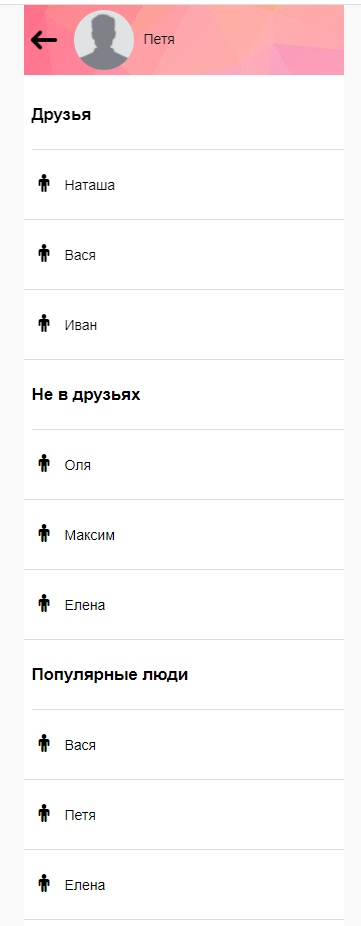
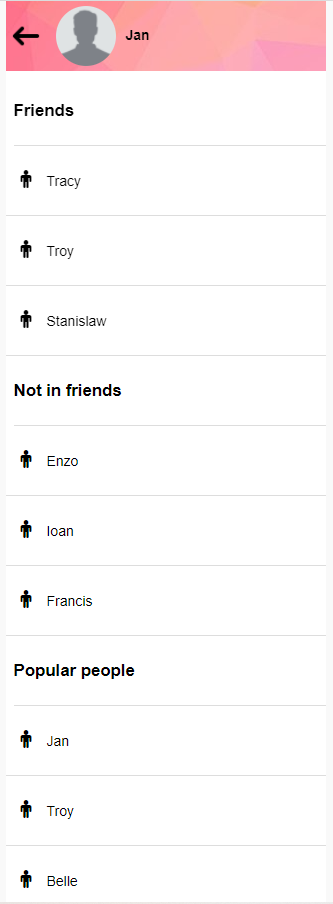
changed readme

diff --git a/index.js b/index.js
@@ -38,7 +38,7 @@ const displayFriends = (contacts, id, popularFriends) => {
   }</div>
   <div>
     <ul>
-      <li class="people-title">Друзья</li>
+      <li class="people-title">Friends</li>
       ${contact.friends
         .map((friend) => {
           return `<li><i class="fa fa-male"></i><span>${
@@ -46,13 +46,13 @@ const displayFriends = (contacts, id, popularFriends) => {
           }</span></li>`;
         })
         .join("")}
-        <li class="people-title">Не в друзьях</li>
+        <li class="people-title">Not in friends</li>
         ${notFriends
           .map((a) => {
             return `<li><i class="fa fa-male"></i><span>${a.name}</span></li>`;
           })
           .join("")}
-          <li class="people-title">Популярные люди</li> 
+          <li class="people-title">Popular people</li> 
           ${popularFriends
             .map((a) => {
               return `<li><i class="fa fa-male"></i><span>${a.name}</span></li>`;

diff --git a/index.html b/index.html
@@ -6,7 +6,7 @@
     <link rel="shortcut icon" href="i/favicon.ico" type="image/x-icon" />
     <meta http-equiv="X-UA-Compatible" content="ie=edge" />
     <link rel="stylesheet" href="./css/style.css" />
-    <title>Тестовое задание</title>
+    <title>Social web</title>
   </head>
   <body>
     <div id="container">

diff --git a/css/style.css b/css/style.css
@@ -252,7 +252,7 @@ body {
   position: absolute;
   top: 25px;
   left: 120px;
-
+  font-weight: bold;
   z-index: 2;
 }
 
